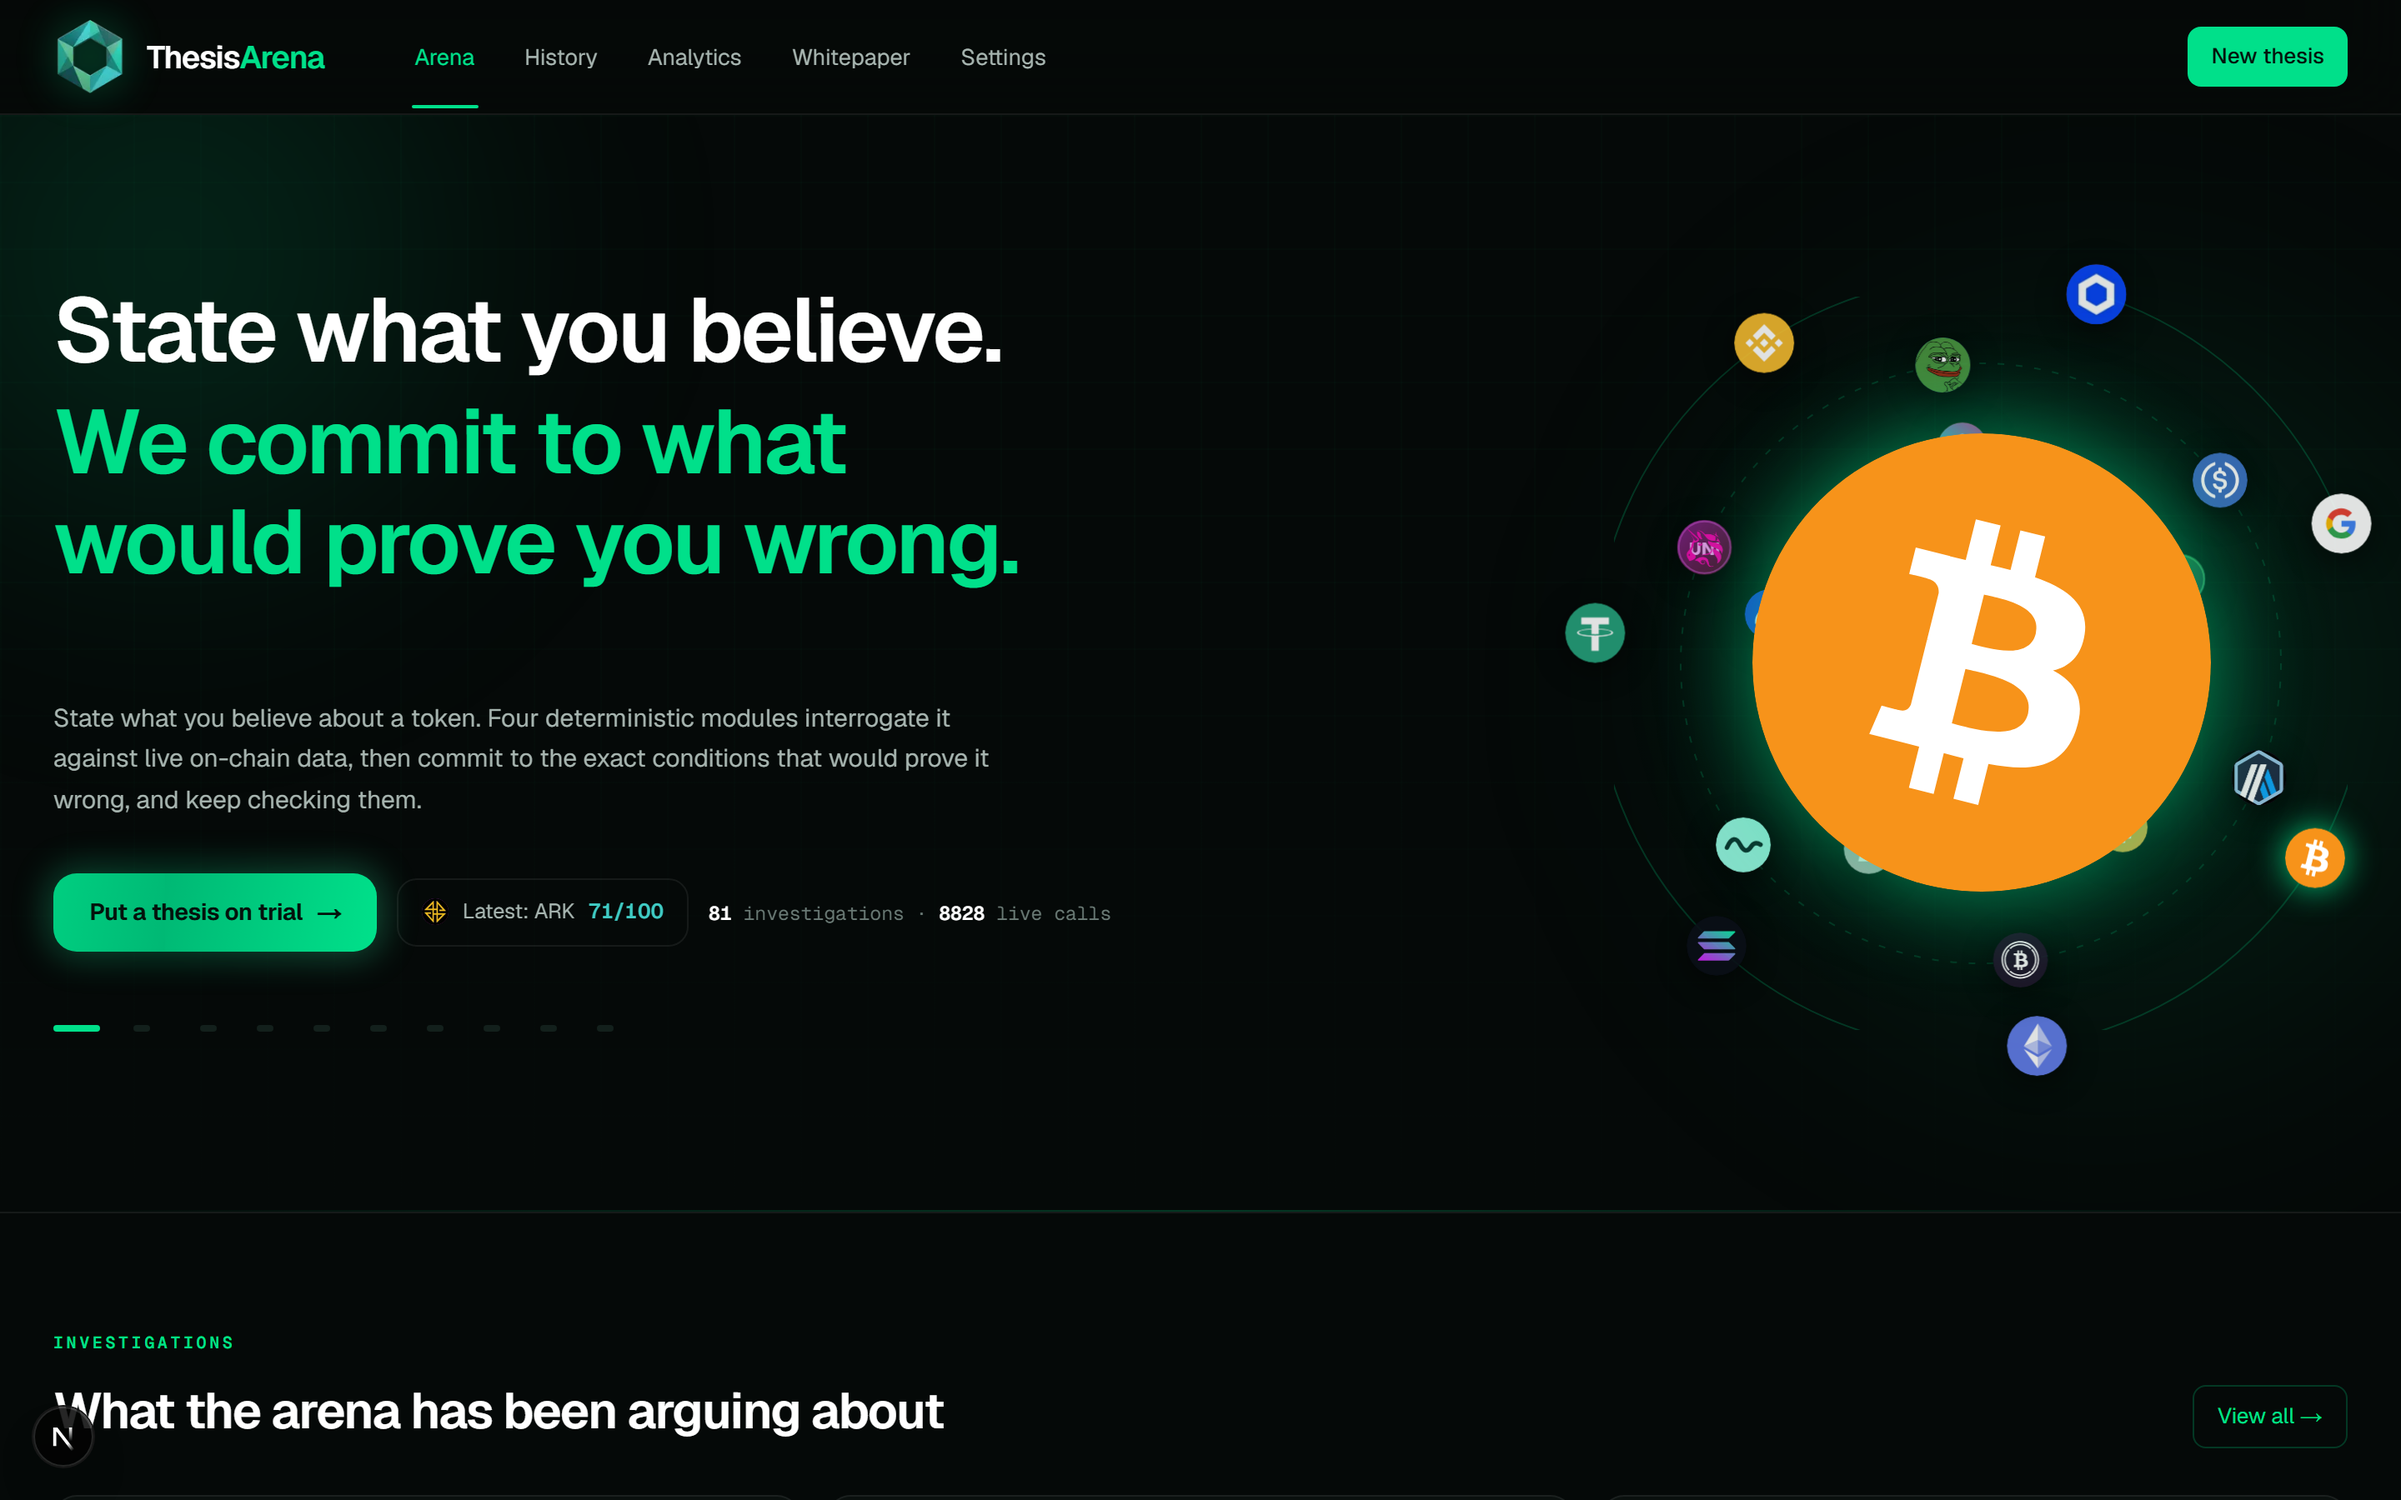
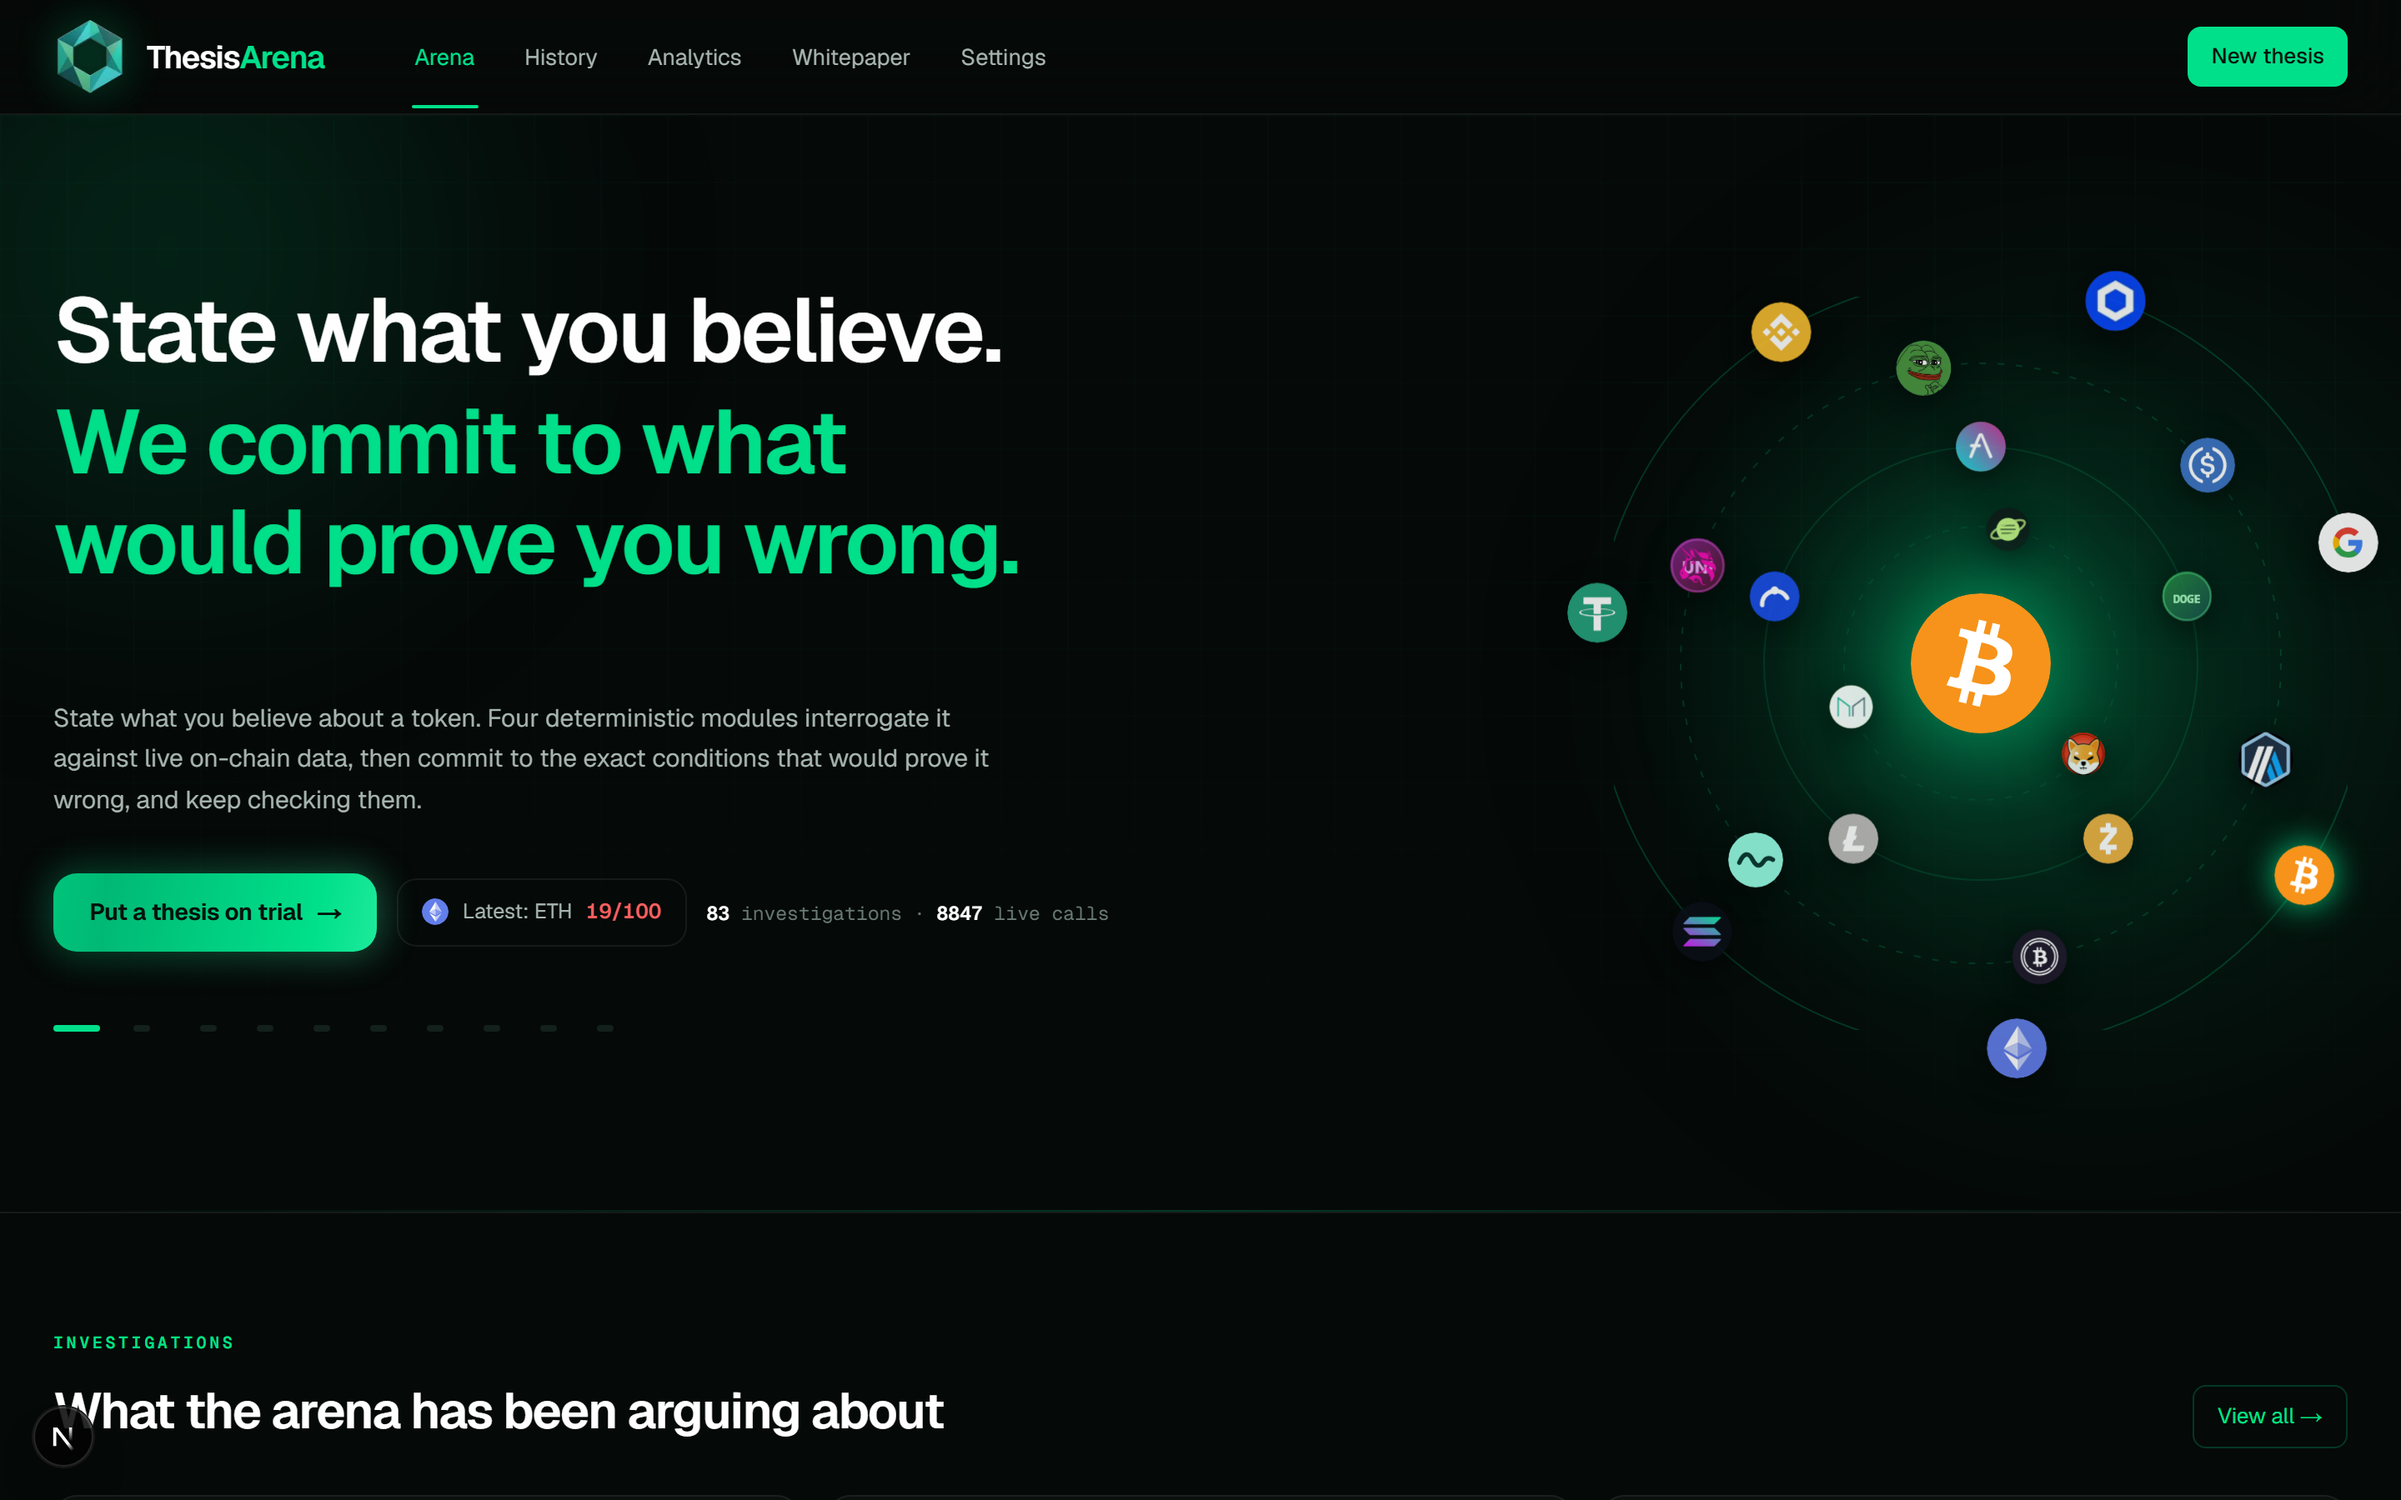
Size the orbit core against the orbit, and let it change
The centre mark was set in cqw, but its wrapper is a sibling of the
element that declares the query container rather than a child of it. With
no container to resolve against, cqw falls back to the viewport, so the
mark tracked the window instead of the rings it sits in: 19% of the orbit
on a phone, 44% at 1024 and 62% at 1440, where 275px of Bitcoin swamped
everything around it. The wrapper is inset-0 on a square parent, so a
plain percentage is exactly the proportion intended and needs no
container. Measured at four widths: a constant 19.1%, 84px at full size.

It was also pinned to BTC, which left the one element at the centre of
the composition motionless while everything around it moved. It now
cycles through eight of the marks already in the orbit, so nothing new
has to load, and holds still under prefers-reduced-motion, the same
reading of that preference the rotating headline takes. Verified across a
full cycle: all eight appear, every one resolves to a real logo rather
than a monogram, and the size never changes.

diff --git a/src/components/hero.tsx b/src/components/hero.tsx
@@ -283,8 +283,34 @@ const ORBIT = RINGS.flatMap((ring) =>
  * Decorative orbit. A fixed set of majors — the investigated token is
  * deliberately never placed here, so the art makes no claim about the data.
  */
+/**
+ * Which mark sits in the middle, changing on a slow cycle.
+ *
+ * It was pinned to BTC, so the one element at the centre of the composition
+ * never moved while everything around it did. Cycling gives the orbit
+ * somewhere to lead the eye, and reuses the marks already on screen so nothing
+ * new has to load.
+ *
+ * Held still for anyone who asked for reduced motion, which is the same
+ * reading of the preference the rotating headline takes.
+ */
+const FOCUS = ['BTC', 'ETH', 'SOL', 'LINK', 'GOOGL', 'UNI', 'AAVE', 'ARB'];
+const FOCUS_MS = 3400;
+
+function useOrbitFocus(): string {
+  const [n, setN] = useState(0);
+
+  useEffect(() => {
+    if (window.matchMedia('(prefers-reduced-motion: reduce)').matches) return;
+    const t = setInterval(() => setN((v) => (v + 1) % FOCUS.length), FOCUS_MS);
+    return () => clearInterval(t);
+  }, []);
+
+  return FOCUS[n];
+}
+
 function ArenaOrb() {
-  const active = 'BTC';
+  const active = useOrbitFocus();
   return (
     <div className="relative mx-auto aspect-square w-full max-w-[440px]">
       <svg
@@ -355,10 +381,17 @@ function ArenaOrb() {
           className="float-slow line-in grid place-items-center"
           style={{
             filter: 'drop-shadow(0 0 26px rgba(0,224,138,0.55))',
-            // 84 of 440, held as a proportion so the centre mark scales with
-            // the ring rather than swamping it on a narrow screen.
-            width: '19.09cqw',
-            height: '19.09cqw',
+            // 84 of 440, as a percentage of this wrapper rather than in cqw.
+            //
+            // This div is a sibling of the one that declares the query
+            // container, not a child of it, so cqw here had no container to
+            // resolve against and fell back to the viewport. The mark grew
+            // with the window instead of with the orbit: 19% of the rings on a
+            // phone, 62% of them at 1440px, which is the "too big" everyone
+            // saw. The wrapper is inset-0 on a square parent, so a percentage
+            // is exactly the proportion intended and needs no container at all.
+            width: '19.09%',
+            height: '19.09%',
           }}
         >
           <CoinIcon symbol={active} size={84} fluid />
